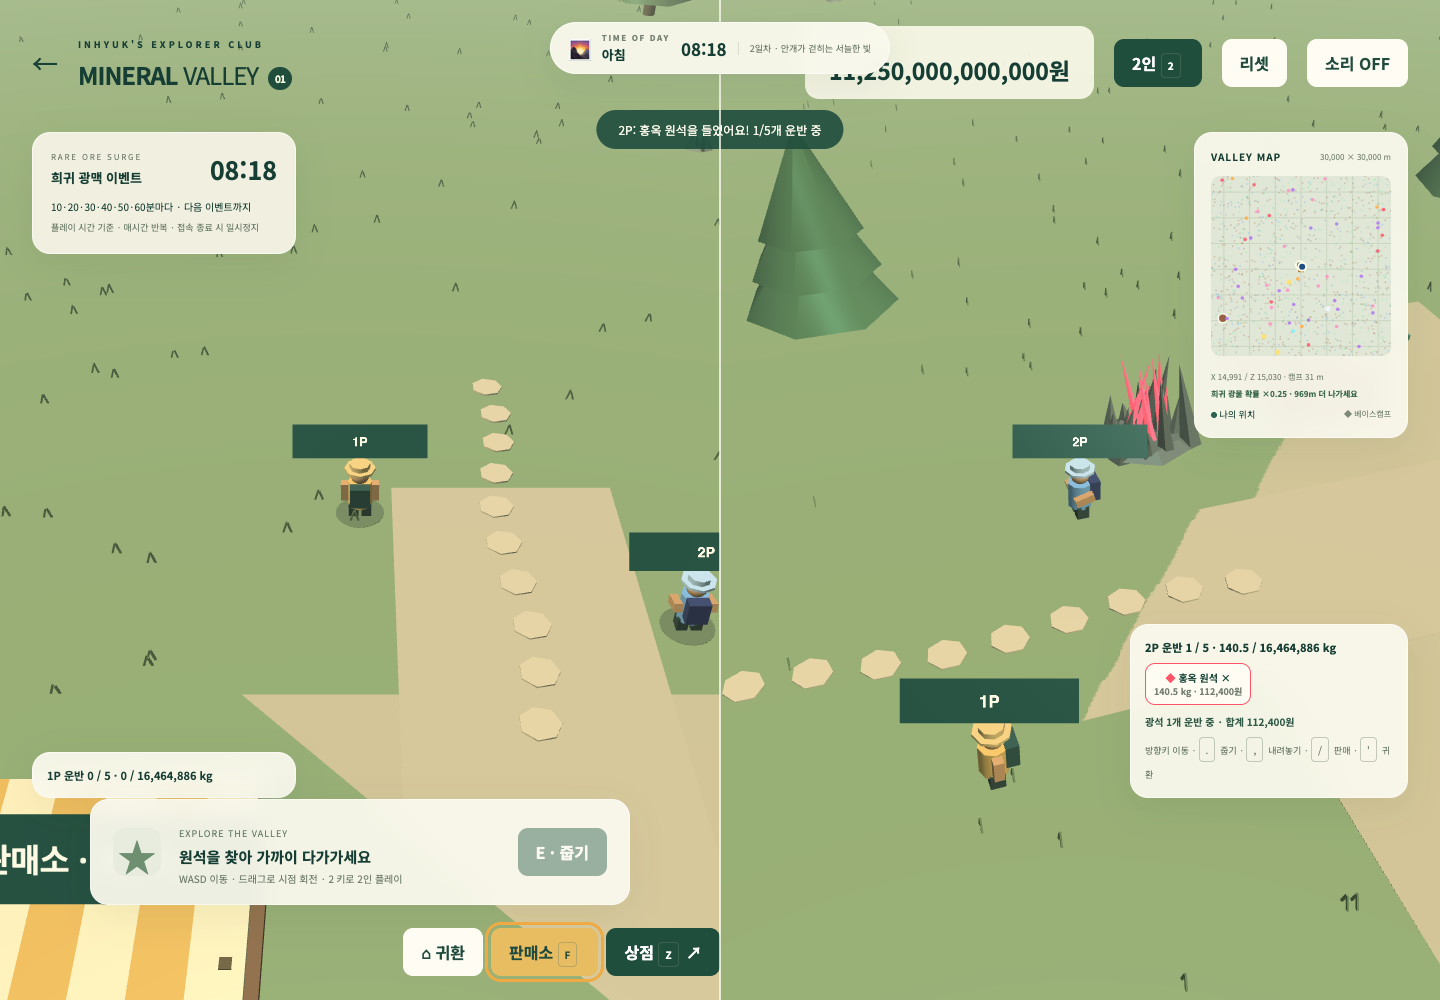
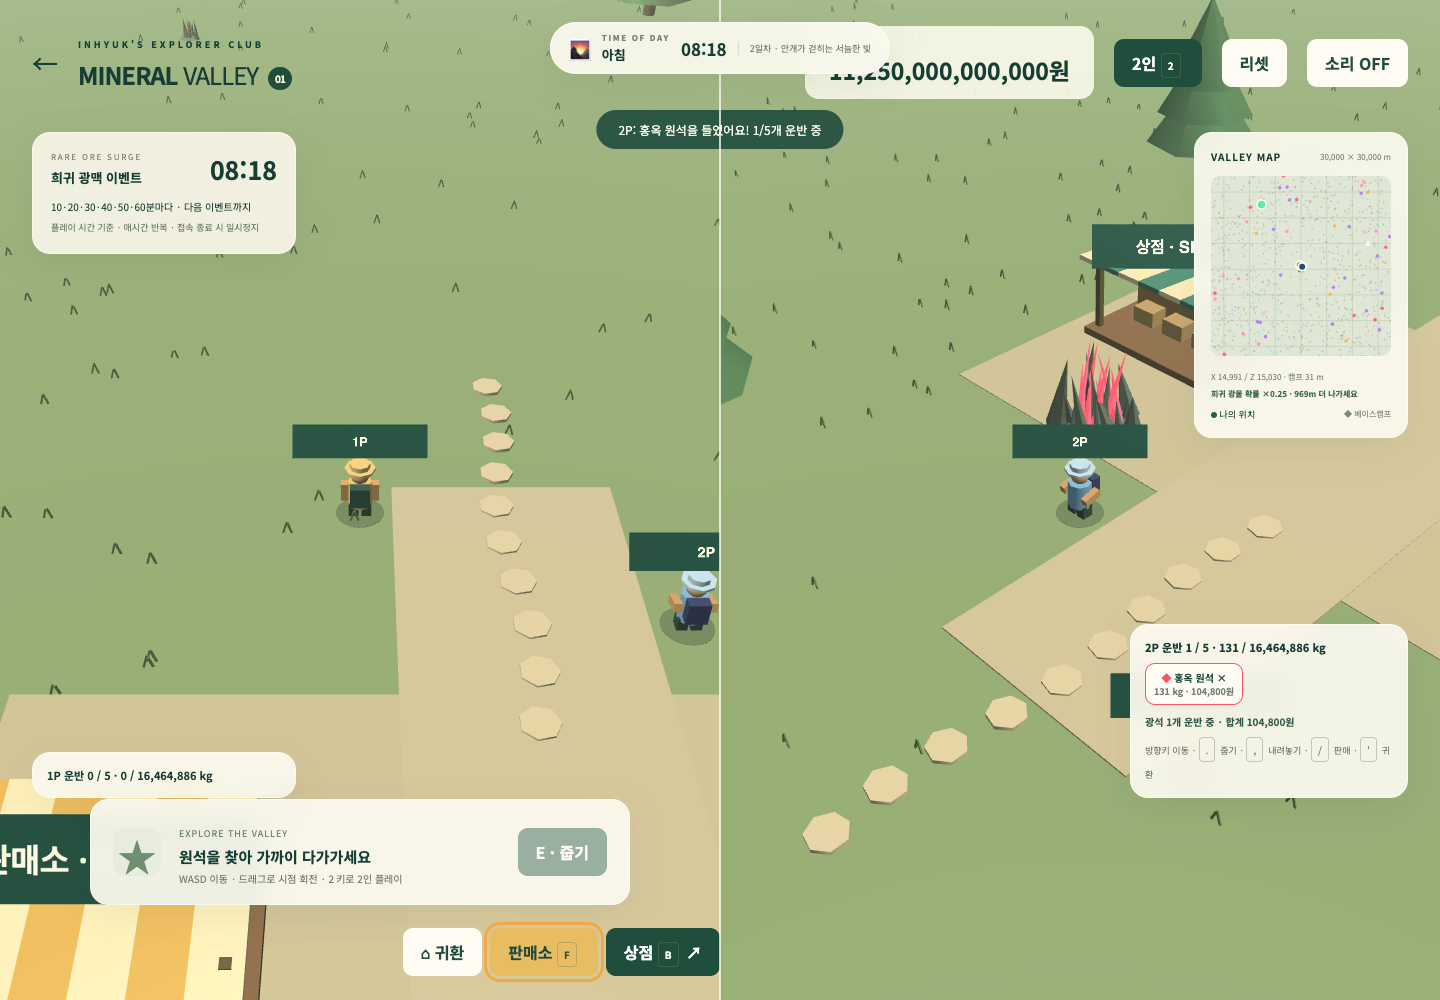
fix: 베이스캠프 바닥 깜빡임 제거하고 상점 단축키를 B로 되돌림
30,000m 지면과 캠프 바닥판 아랫면이 정확히 같은 높이(-0.03)에 있어
깊이 버퍼가 다투면서 줌아웃할수록 바닥이 톱니처럼 깨지고 반짝였다.

- 캠프 광장·길을 두꺼운 판으로 만들어 지면 아래에 묻고 윗면 높이만 층층이 분리
- 징검다리·그림자·선택 고리도 같은 간격으로 올림
- 지면을 24분할해 거대한 삼각형의 깊이 보간 오차를 줄임
- 카메라 근평면을 0.3에서 1로 (카메라는 22 이상 떨어져 있어 잘림 없음)
- 상점 단축키 Z → B 복귀

줌아웃 상태에서 카메라를 미세하게 움직였을 때 바닥 픽셀 변동 42.5% → 4.0%.

diff --git a/games/mineral-valley/index.html b/games/mineral-valley/index.html
@@ -11,7 +11,7 @@
 <div class="place"><span>● LIVE EXPEDITION</span><b id="region">이끼빛 초원</b></div>
 <div id="toast" role="status">앞에 놓인 초록 원석으로 첫 탐험을 시작하세요.</div>
 <section id="target" class="glass"><div class="ore-symbol" id="target-symbol">◇</div><div><small id="target-rank">BASE CAMP</small><h3 id="target-name">원석을 찾아 가까이 다가가세요</h3><p id="target-info">WASD 이동 · 드래그로 시점 회전</p></div><button id="lift">E · 줍기</button></section>
-<footer><div class="shortcuts"><span><kbd>W A S D</kbd> 이동</span><span><kbd>드래그</kbd> 둘러보기</span><span><kbd>R</kbd> 캠프 귀환</span><span><kbd>2</kbd> 2인 플레이</span></div><div class="actions"><button id="return">⌂ 귀환</button><button id="drop" hidden>Q · 내려놓기</button><button id="sell">판매소 <kbd>F</kbd></button><button id="shop">상점 <kbd>Z</kbd> ↗</button></div></footer>
+<footer><div class="shortcuts"><span><kbd>W A S D</kbd> 이동</span><span><kbd>드래그</kbd> 둘러보기</span><span><kbd>R</kbd> 캠프 귀환</span><span><kbd>2</kbd> 2인 플레이</span></div><div class="actions"><button id="return">⌂ 귀환</button><button id="drop" hidden>Q · 내려놓기</button><button id="sell">판매소 <kbd>F</kbd></button><button id="shop">상점 <kbd>B</kbd> ↗</button></div></footer>
 <div id="touch"><button data-move="w" aria-label="앞으로">▲</button><div><button data-move="a" aria-label="왼쪽">◀</button><button data-move="s" aria-label="뒤로">▼</button><button data-move="d" aria-label="오른쪽">▶</button></div></div>
 <dialog id="modal"><button id="close" aria-label="닫기">✕</button><small class="eyebrow" id="modal-label"></small><h2 id="modal-title"></h2><div id="modal-body"></div></dialog>
 <script type="module" src="./main.js"></script></body></html>

diff --git a/games/mineral-valley/main.js b/games/mineral-valley/main.js
@@ -189,14 +189,14 @@ $('modal-body').onsubmit=e=>{if(e.target.id!=='gift-form')return;e.preventDefaul
 $('modal-body').onclick=e=>{const b=e.target.closest('[data-buy]');if(b&&buy(state,b.dataset.buy)){tone(true);save();update();shop();}};
 // 1인 플레이에서는 방향키가 WASD를 대신하고, 2인 플레이에서는 2P 전용이 된다.
 const ARROWS={w:'arrowup',s:'arrowdown',a:'arrowleft',d:'arrowright'};
-const HOTKEYS=new Set(['w','a','s','d','e','q','r','f','z','2',' ','arrowup','arrowdown','arrowleft','arrowright','.',',','/',"'"]);
+const HOTKEYS=new Set(['w','a','s','d','e','q','r','f','b','2',' ','arrowup','arrowdown','arrowleft','arrowright','.',',','/',"'"]);
 addEventListener('keydown',e=>{
  if($('modal').open)return;
  const k=e.key.toLowerCase();
  if(HOTKEYS.has(k))e.preventDefault();
  keys.add(k);
  if(e.repeat)return;
- if(k==='e')lift(P1);if(k==='q')drop(P1);if(k==='r')home(P1);if(k==='f')sale(P1);if(k==='z')shop();
+ if(k==='e')lift(P1);if(k==='q')drop(P1);if(k==='r')home(P1);if(k==='f')sale(P1);if(k==='b')shop();
  if(k==='2')setTwoPlayer(!twoPlayer);
  if(twoPlayer){if(k==='.')lift(P2);if(k===',')drop(P2);if(k==='/')sale(P2);if(k==="'")home(P2);}
 });

diff --git a/games/mineral-valley/README.md b/games/mineral-valley/README.md
@@ -5,7 +5,7 @@
 ## 조작
 
 - **1P**: `W A S D` / 방향키 이동 · 드래그 카메라 회전 · 휠 거리 조절
-- **1P 행동**: `E` 줍기 · `Q` 내려놓기 · `R` 캠프 귀환 · `F` 판매 · `Z` 상점
+- **1P 행동**: `E` 줍기 · `Q` 내려놓기 · `R` 캠프 귀환 · `F` 판매 · `B` 상점
 - **2인 플레이**: `2` 키로 분할 화면 켜고 끄기 (헤더의 `2인` 버튼도 동일)
 - **2P**: 방향키 이동 · `.` 줍기 · `,` 내려놓기 · `/` 판매 · `'` 캠프 귀환
 - **휴대폰**: 방향 버튼, 화면 드래그, 행동 버튼
